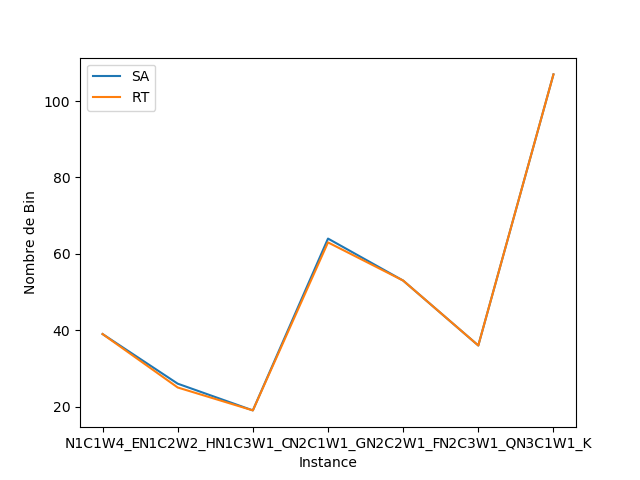
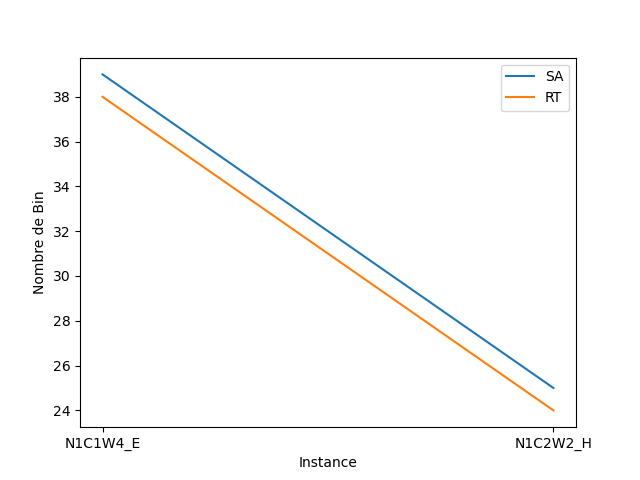
update compare

diff --git a/compare.py b/compare.py
@@ -1,5 +1,11 @@
 from tabu_search import TabuSearch
 from SimulatedAnnealing import SA
+from genetic_algorithm import GeneticAlgorithm
+from HRH import HRH
+from HRH_AG_RS import HRH_RS
+from LTH import LTH
+from LTH2 import LTH2
+from HTH import *
 from item import Item
 from random import shuffle
 from datetime import datetime
@@ -21,11 +27,54 @@ def execute_algo(name,capacity,items):
         execution_time = datetime.now() - start_time
         bins_algo = len(thing.bins)
         time_algo = execution_time.total_seconds() 
+    elif(name == 'GA'):
+        thing = GeneticAlgorithm(capacity, items)
+        start_time = datetime.now()
+        total_iterations, stagnation = thing.run()
+        execution_time = datetime.now() - start_time
+        time_algo = execution_time.total_seconds()
+        bins_algo = thing.best_solution.num_bins
+    elif(name == 'HRH'):
+        thing = HRH(capacity, items)
+        start_time = datetime.now()
+        result1, result2, total_iterationsAG, stagnationAG, total_iterationsTB, stagnationTB, combinationTB = thing.run()
+        execution_time = datetime.now() - start_time
+        time_algo = execution_time.total_seconds()
+        bins_algo = len(result2.bins)
+    elif(name == 'HRH_RS'):
+        thing = HRH_RS(capacity, items)
+        start_time = datetime.now()
+        sa = thing.run()
+        execution_time = datetime.now() - start_time
+        time_algo = execution_time.total_seconds()
+        bins_algo = len(sa.bins)
+    elif(name == 'LTH'):
+        thing = LTH(capacity, items)
+        start_time = datetime.now()
+        total_iterations, stagnation = thing.run()
+        execution_time = datetime.now() - start_time
+        time_algo = execution_time.total_seconds()
+        bins_algo = thing.best_solution.num_bins
+    elif(name == 'LTH2'):
+        thing = LTH2(capacity, items)
+        start_time = datetime.now()
+        total_iterations, stagnation = thing.run()
+        execution_time = datetime.now() - start_time
+        time_algo = execution_time.total_seconds()
+        bins_algo = thing.best_solution.num_bins
+    elif(name == 'HTH'):
+        thing = HTH(capacity, items)
+        start_time = datetime.now()
+        sa = thing.run()
+        execution_time = datetime.now() - start_time
+        time_algo = execution_time.total_seconds()
+        bins_algo = [len(a) for a in sa]
+    
 
     return bins_algo,time_algo
 if __name__ == '__main__':
     # Algo to compare : array of two names
-    names = ['SA', 'RT']
+    names = ['SA', 'HTH']
 
     datasets = [
         # {"name": "HARD9.txt", "solution":56, "results": {}},
@@ -35,11 +84,11 @@ if __name__ == '__main__':
 
         {"name": "N1C1W4_E.txt", "solution":35, "results": {}},
         {"name": "N1C2W2_H.txt", "solution":23, "results": {}},
-        {"name": "N1C3W1_C.txt", "solution":17, "results": {}},
-        {"name": "N2C1W1_G.txt", "solution":60, "results": {}},
-        {"name": "N2C2W1_F.txt", "solution":49, "results": {}},
-        {"name": "N2C3W1_Q.txt", "solution":34, "results": {}},
-        {"name": "N3C1W1_K.txt", "solution":102, "results": {}},
+        #{"name": "N1C3W1_C.txt", "solution":17, "results": {}},
+        #{"name": "N2C1W1_G.txt", "solution":60, "results": {}},
+        #{"name": "N2C2W1_F.txt", "solution":49, "results": {}},
+        #{"name": "N2C3W1_Q.txt", "solution":34, "results": {}},
+        #{"name": "N3C1W1_K.txt", "solution":102, "results": {}},
 
         # {"name": "N1W4B2R3.txt", "solution":6, "results": {}},
         # {"name": "N2W1B3R8.txt", "solution":34, "results": {}}, 

diff --git a/main_ga.py b/main_ga.py
@@ -47,7 +47,6 @@ if __name__ == '__main__':
             # Randomize the order of the items in the item list.
             shuffle(items)
             thing = GeneticAlgorithm(capacity, items)
-
             start_time = datetime.now()
             total_iterations, stagnation = thing.run()
             execution_time = datetime.now() - start_time
